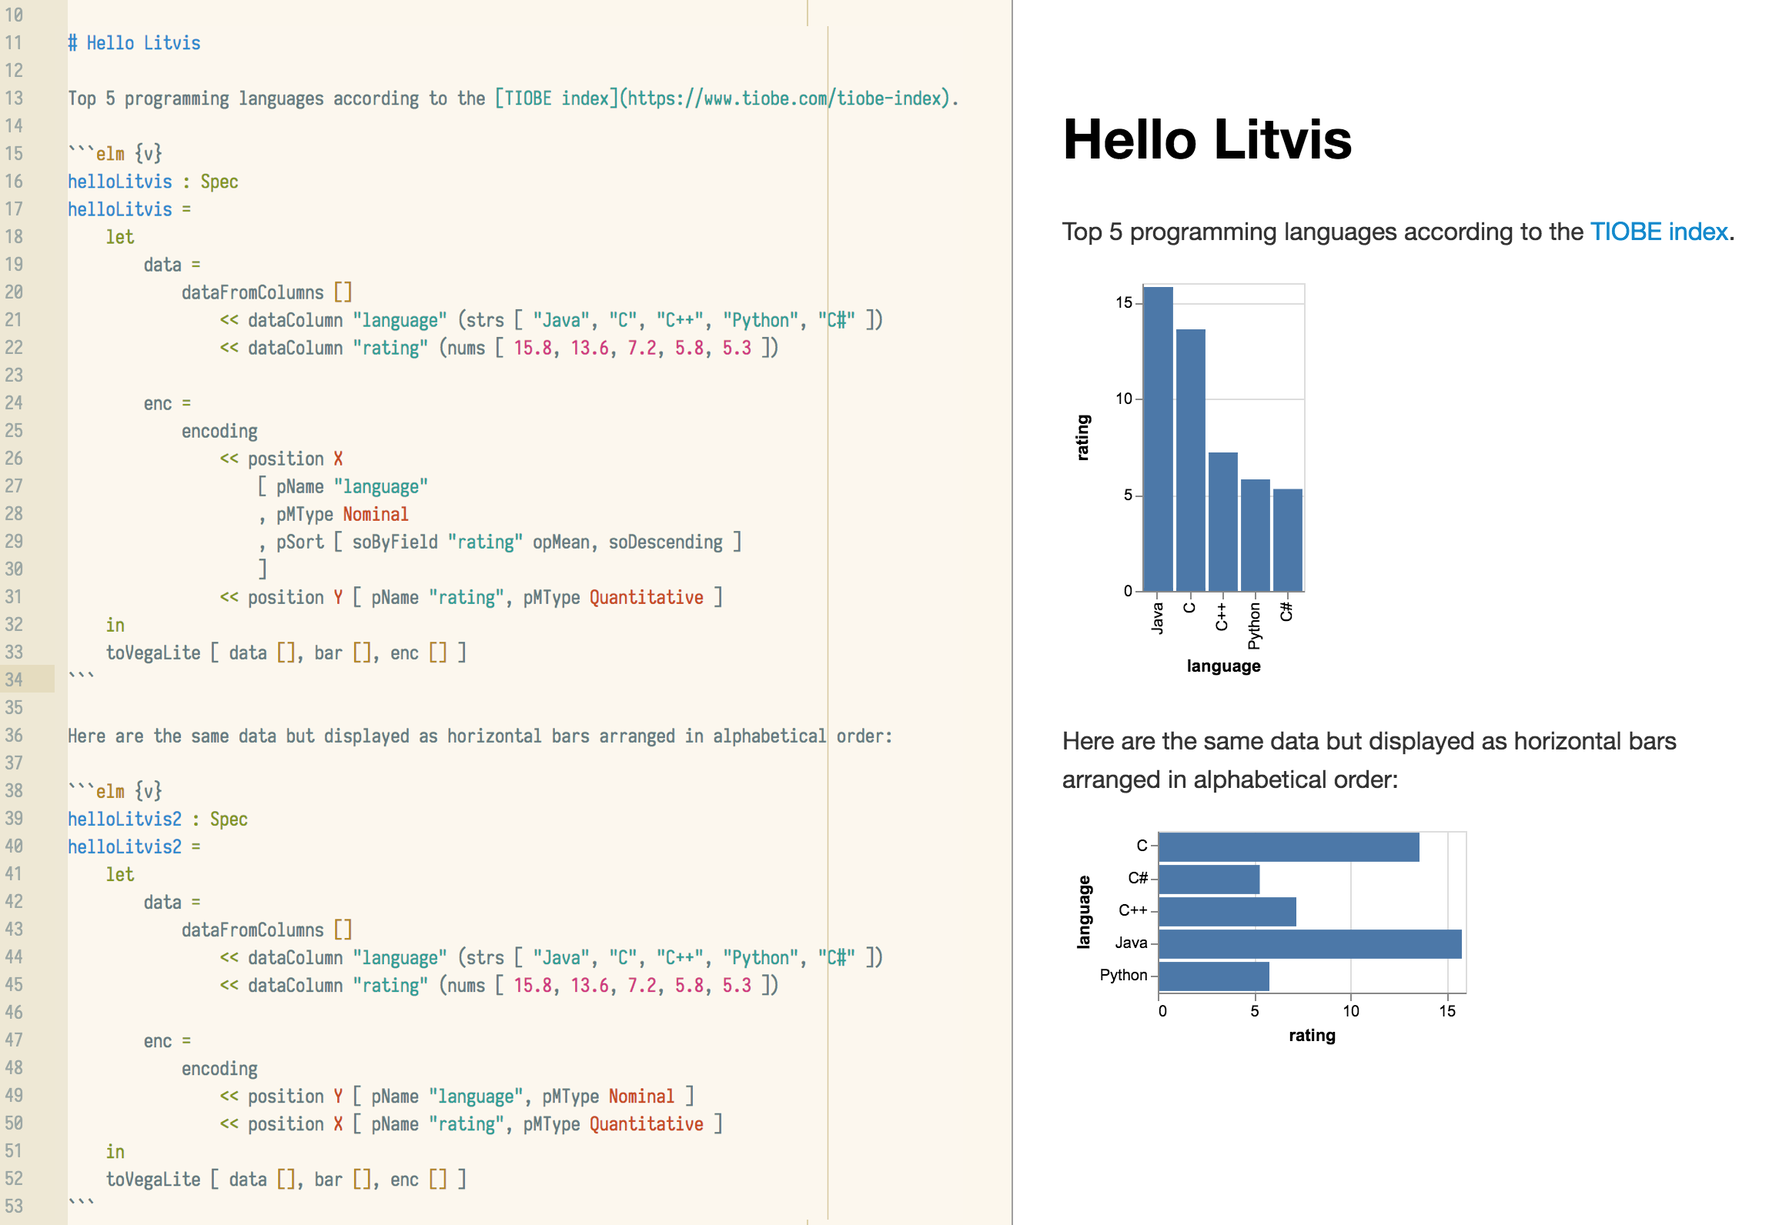
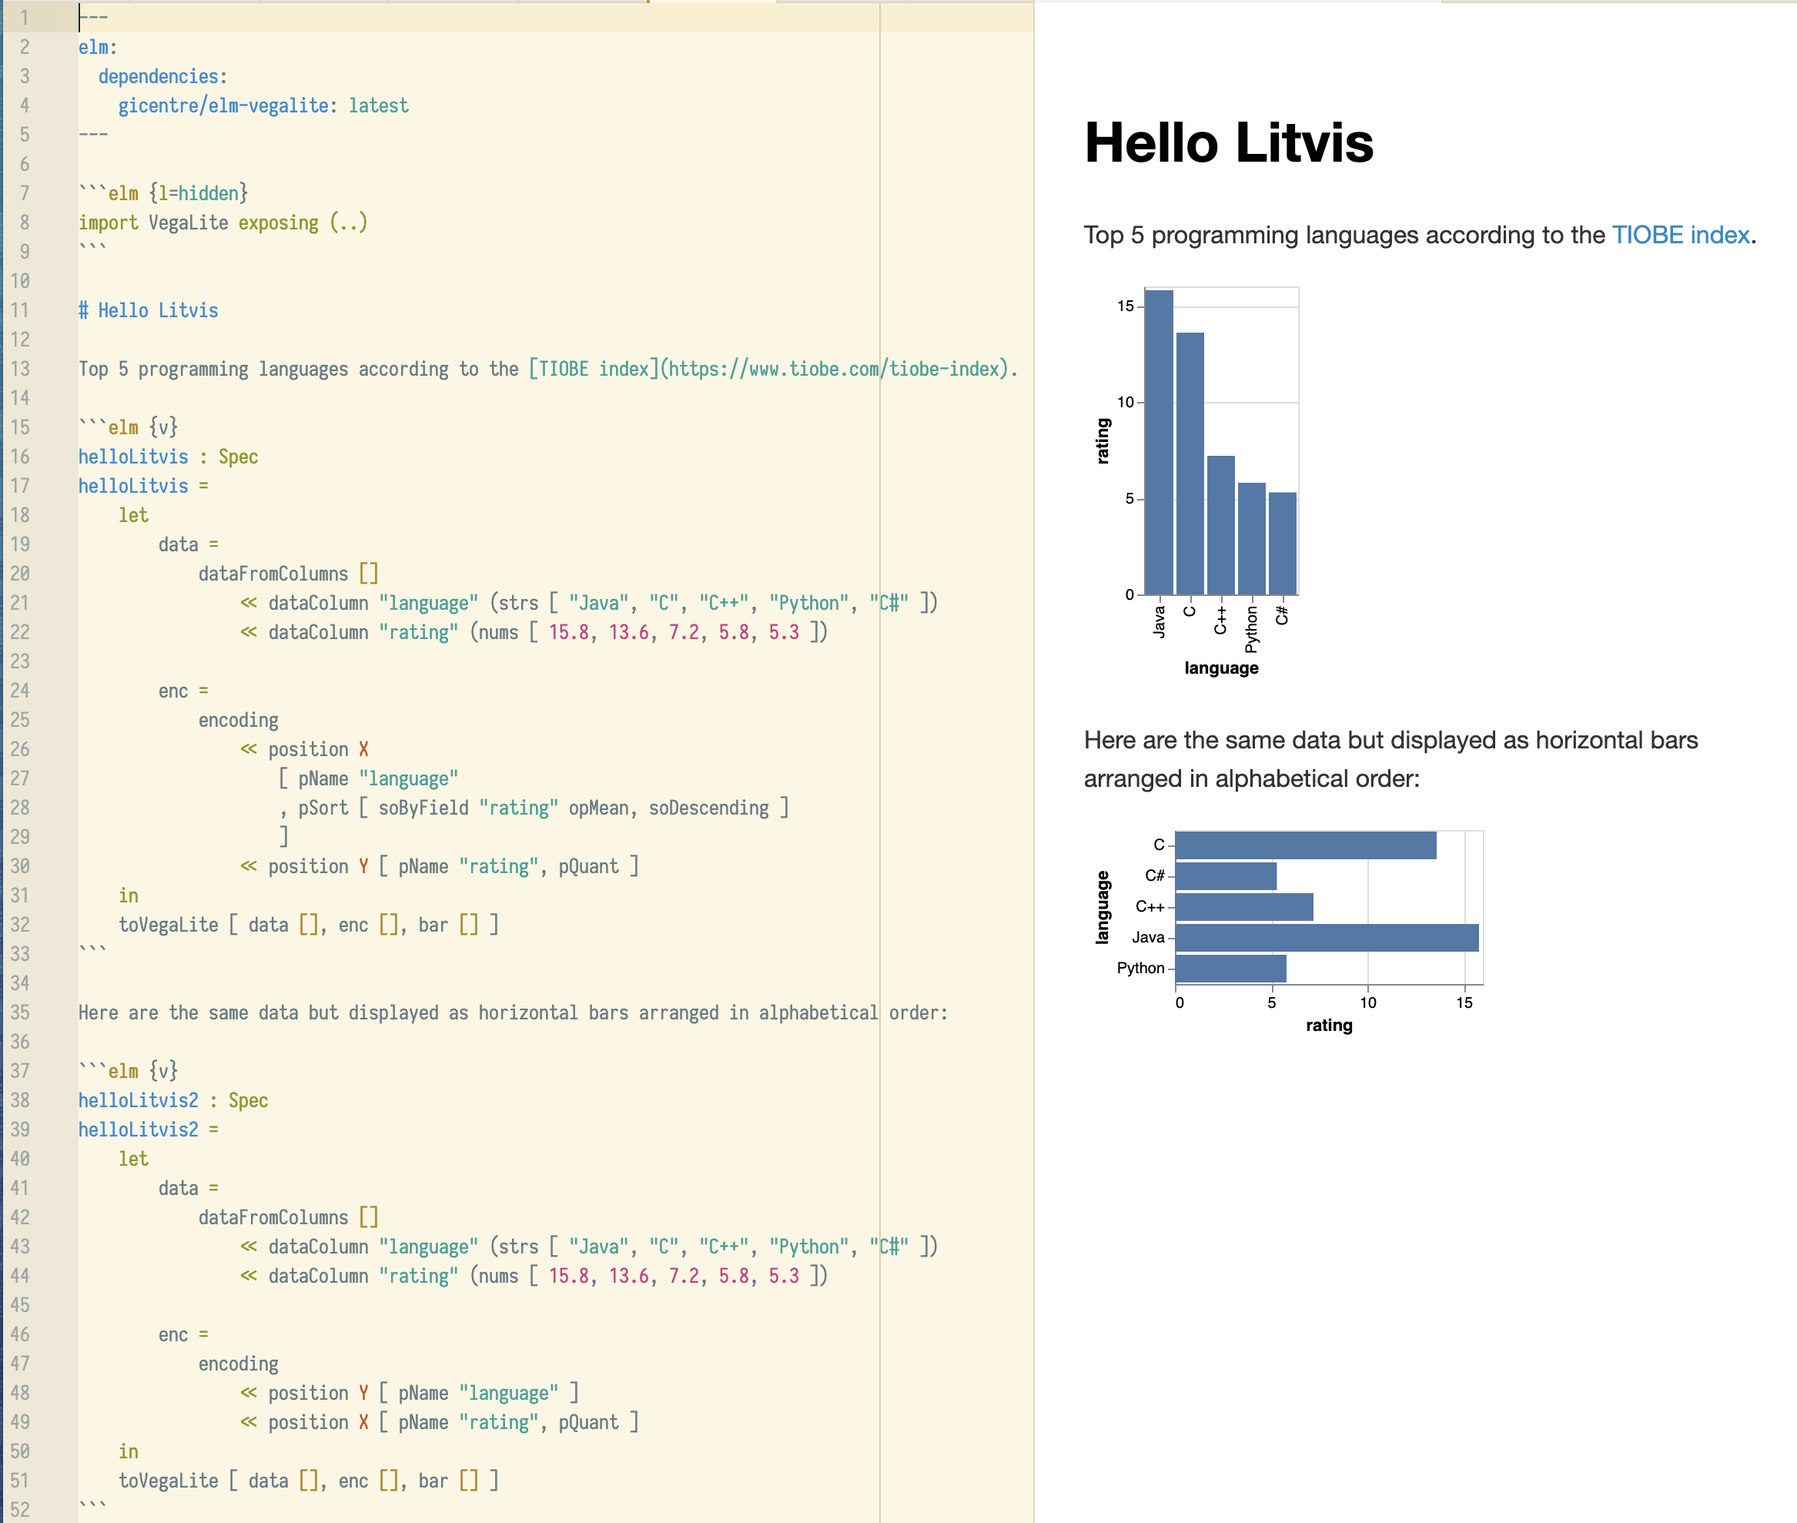
Update to use latest elm-vegalite and more idomatic code

Changed region(s): [[0.0, 0.0, 0.9887, 1.0], [0.0618, 0.8618, 0.4017, 0.9849], [0.4017, 0.3693, 0.5252, 0.4309]]

diff --git a/documents/tutorials/introduction/intro2.md b/documents/tutorials/introduction/intro2.md
@@ -15,9 +15,7 @@ narrative-schemas:
 
 # Branching Narratives
 
-We have already seen in the [previous chapter](intro1.md) that a litvis document can contain many code blocks, each of which can render a different visualization.
-Sometimes, when we are considering a visualization design we wish to explore different design approaches in order to evaluate their relative strengths and weaknesses.
-Rather than simply place all of these alternatives in a single document, we can create different 'branches' of a narrative that allows us to explore alternatives in parallel without creating a single, potentially confusing, monolithic narrative.
+We have already seen in the [previous chapter](intro1.md) that a litvis document can contain many code blocks, each of which can render a different visualization. Sometimes, when we are considering a visualization design we wish to explore different design approaches in order to evaluate their relative strengths and weaknesses. Rather than simply place all of these alternatives in a single document, we can create different 'branches' of a narrative that allows us to explore alternatives in parallel without creating a single, potentially confusing, monolithic narrative.
 
 Let's explore how this might work in practice by considering ways to visualize how household incomes of the richest and poorest 5% have changed over the last 50 years or so.
 
@@ -43,30 +41,24 @@ import VegaLite exposing (..)
 
 data : Data
 data =
-    dataFromUrl "https://gicentre.github.io/data/incomeInequality2017.csv" []
+    dataFromUrl "https://gicentre.github.io/data/incomeInequality2018.csv" []
 ```
 ````
 
-{(question |}
-Create a new file called `incomeRoot.md` and copy the code above into it.
-This will act as the 'root' for the branches we will create as it contains the code and text common to all branches.
-{|question )}
+{(question |} Create a new file called `incomeRoot.md` and copy the code above into it.
+This will act as the 'root' for the branches we will create as it contains the code and text common to all branches. {|question )}
 
 ## 2. Line Charts
 
 The data we are initially interested in are in the columns `Year`, `5pcIncome` and `95pcIncome`, so let's explore some line chart designs to show how household income has changed by year. But rather than add code directly to `incomeRoot.md` let's put our line-chart experiments in their own file, which we can call `incomeLineCharts.md`.
 
-{(question |}
-Copy the file [incomeLineCharts.md](incomeLineCharts.md) into the same folder as `incomeRoot.md`.
-{|question )}
+{(question |}Copy the file [incomeLineCharts.md](incomeLineCharts.md) into the same folder as `incomeRoot.md`. {|question )}
 
 This should generate formatted output similar to the following where you can experiment with some line chart representations of the data:
 
 ![line chart output](images/linecharts.png)
 
-{(question |}
-If you are feeling confident with [elm-vegalite](https://package.elm-lang.org/packages/gicentre/elm-vegalite/latest/) you can try further experiments with line charts by editing `incomeLineCharts.md`
-{|question )}
+{(question |} If you are feeling confident with [elm-vegalite](https://package.elm-lang.org/packages/gicentre/elm-vegalite/latest/) you can try further experiments with line charts by editing `incomeLineCharts.md` {|question )}
 
 Notice that the header of this new file doesn't have the usual `elm dependencies` lines, nor does it import anything or create a `data` function. All of that was defined in `incomeRoot.md`. Instead we link this document to `incomeRoot.md` with the header
 
@@ -84,9 +76,7 @@ Now suppose we've had enough experimentation with line charts and we want to con
 
 To try an alternative set of designs, we can create another document `incomeScatterplot.md` which also follows `incomeRoot`:
 
-{(question |}
-Copy the file [incomeScatterplots.md](incomeScatterplots.md) into the same folder as `incomeRoot.md` and view the results in the preview pane.
-{|question )}
+{(question |} Copy the file [incomeScatterplots.md](incomeScatterplots.md) into the same folder as `incomeRoot.md` and view the results in the preview pane. {|question )}
 
 This should generate a page where we can explore connected scatterplot designs, a portion of which is shown below:
 
@@ -109,10 +99,7 @@ Depending on which approach we think the better one we can continue exploring in
 
 Alternatively we could continue to develop both branches to see if we can improve them further. Or perhaps a completely different approach might occur to us, in which case we simply add a new parallel branch.
 
-{(question |}
-Try creating `incomeInequality.md` and link to your preferred design and see if you can improve upon it as you explore patterns of income inequality.
-The [original data file](https://gicentre.github.io/data/incomeInequality2017.csv) also contains data on the governing political party which you may want to incorporate into your visualization and analysis.
-{|question )}
+{(question |} Try creating `incomeInequality.md` and link to your preferred design and see if you can improve upon it as you explore patterns of income inequality. The [original data file](https://gicentre.github.io/data/incomeInequality2018.csv) also contains data on the governing political party which you may want to incorporate into your visualization and analysis. {|question )}
 
 ---
 

diff --git a/documents/tutorials/introduction/intro1.md b/documents/tutorials/introduction/intro1.md
@@ -50,16 +50,15 @@ helloLitvis =
             encoding
                 << position X
                     [ pName "language"
-                    , pNominal
                     , pSort [ soByField "rating" opMean, soDescending ]
                     ]
                 << position Y [ pName "rating", pQuant ]
     in
-    toVegaLite [ data [], bar [], enc [] ]
+    toVegaLite [ data [], enc[], bar [] ]
 ```
 ````
 
-If you open the preview pane (in Atom, select `Packages->Markdown Preview Enhanced with litvis->Toggle` or the keyboard shortcut `Shift-Ctrl-M`), you should see output similar to the following:
+If you open the preview pane (in Atom, select `Packages->Markdown Preview Enhanced with litvis->Toggle` or the keyboard shortcut `Shift-Ctrl-M`; or in VS-Code, `Crtl-k` or `Cmd-k` followed by `s`), you should see output similar to the following:
 
 ![helloLitvis](images/hello1.png)
 
@@ -101,8 +100,7 @@ Try changing the values inside the curly braces of `elm {v}` in `helloLitvis.md`
 
 ## Working with multiple code blocks
 
-You can mix normal markdown text with fenced code blocks throughout a litvis document.
-For example, try adding the following text and code to the bottom of [`helloLitvis.md`](helloLitvisV2.md):
+You can mix normal markdown text with fenced code blocks throughout a litvis document. For example, try adding the following text and code to the bottom of [`helloLitvis.md`](helloLitvisV2.md):
 
 ````
 Here are the same data but displayed as horizontal bars arranged in alphabetical order:
@@ -118,10 +116,10 @@ helloLitvis2 =
 
         enc =
             encoding
-                << position Y [ pName "language", pNominal ]
+                << position Y [ pName "language" ]
                 << position X [ pName "rating", pQuant ]
     in
-    toVegaLite [ data [], bar [], enc [] ]
+    toVegaLite [ data [], enc [], bar [] ]
 ```
 ````
 
@@ -133,8 +131,7 @@ By continuing to add text and code samples that render visualizations we can bui
 
 But notice that we have some repetition between the two code blocks that share a common data source, and that we have been forced to give the two versions of the function different names (`helloLitvis` and `helloLitvis2`) to avoid name clashes.
 
-By default, functions that are defined in fenced code blocks are visible throughout the entire document (which is why we had to give both rendering functions different names).
-We can use this to clean things up a little by putting the common code inside its own function to be used by other functions:
+By default, functions that are defined in fenced code blocks are visible throughout the entire document (which is why we had to give both rendering functions different names). We can use this to clean things up a little by putting the common code inside its own function to be used by other functions:
 
 ````
 ```elm {l=hidden}
@@ -145,8 +142,7 @@ data =
 ```
 ````
 
-Additionally, we can give our two visualization specification-generating functions the same name by making them _sidings_ – blocks of code that are not accessible to the other parts of the litvis document.
-This can be useful when you want to create 'one-off' functions that are not referenced elsewhere in your document:
+Additionally, we can give our two visualization specification-generating functions the same name by making them _sidings_ – blocks of code that are not accessible to the other parts of the litvis document. This can be useful when you want to create 'one-off' functions that are not referenced elsewhere in your document:
 
 ````
 Top 5 programming languages according to the [TIOBE index](https://www.tiobe.com/tiobe-index).
@@ -157,10 +153,10 @@ helloLitvis =
     let
         enc =
             encoding
-                << position X [ pName "language", pNominal, pSort [ soByField "rating" opMean, soDescending ] ]
+                << position X [ pName "language", pSort [ soByField "rating" opMean, soDescending ] ]
                 << position Y [ pName "rating", pQuant ]
     in
-    toVegaLite [ data [], bar [], enc [] ]
+    toVegaLite [ data [], enc[], bar [] ]
 ```
 
 Here are the same data but displayed as horizontal bars arranged in alphabetical order:
@@ -171,10 +167,10 @@ helloLitvis =
     let
         enc =
             encoding
-                << position Y [ pName "language", pNominal ]
+                << position Y [ pName "language" ]
                 << position X [ pName "rating", pQuant ]
     in
-    toVegaLite [ data [], bar [], enc [] ]
+    toVegaLite [ data [], enc[], bar [] ]
 ```
 ````
 

diff --git a/documents/tutorials/introduction/incomeScatterplots.md b/documents/tutorials/introduction/incomeScatterplots.md
@@ -7,14 +7,14 @@ follows: incomeRoot
 Rather than separate the 5% and 95% income quantiles, consider a scatterplot that compares both measures for each year of the sample.
 
 ```elm {l=hidden}
-config =
+cfg =
     let
         font =
             "Roboto Condensed"
     in
     configure
         << configuration (coAxis [ axcoTitleFont font, axcoLabelFont font, axcoGrid False ])
-        << configuration (coView [ vicoStroke Nothing, vicoWidth 500, vicoHeight 500 ])
+        << configuration (coView [ vicoStroke Nothing, vicoContinuousWidth 500, vicoContinuousHeight 500 ])
         << configuration (coText [ maAlign haRight, maFontSize 7, maAngle 20, maDx -4 ])
 ```
 
@@ -39,23 +39,22 @@ enc =
 ```elm {v siding}
 scatter : Spec
 scatter =
-    toVegaLite [ config [], data, point [ maFilled True ], enc [] ]
+    toVegaLite [ cfg [], data, enc [], point [ maFilled True ] ]
 ```
 
-While this shows some structure, which is revealing, we cannot see the temporal trend.
-We could get a better idea by creating a [connected scatterplot](https://eagereyes.org/papers/the-connected-scatterplot-for-presenting-paired-time-series) that joins the points in temporal order (1961 in bottom left, 2016 at top right):
+While this shows some structure, which is revealing, we cannot see the temporal trend. We could get a better idea by creating a [connected scatterplot](https://eagereyes.org/papers/the-connected-scatterplot-for-presenting-paired-time-series) that joins the points in temporal order (1961 in bottom left, 2016 at top right):
 
 ```elm {v siding}
 scatter : Spec
 scatter =
     toVegaLite
-        [ config []
+        [ cfg []
         , data
+        , enc []
         , line
             [ maInterpolate miMonotone
             , maPoint (pmMarker [ maFill "black", maStroke "white", maStrokeWidth 1.5 ])
             ]
-        , enc []
         ]
 ```
 
@@ -66,7 +65,7 @@ labelEnc =
     encoding
         << position X [ pName "5pcIncome", pQuant ]
         << position Y [ pName "95pcIncome", pQuant ]
-        << text [ tName "PMLabel", tNominal ]
+        << text [ tName "PMLabel" ]
 ```
 
 ```elm {v siding}
@@ -75,17 +74,17 @@ scatter =
     let
         lineSpec =
             asSpec
-                [ line
+                [ enc []
+                , line
                     [ maInterpolate miMonotone
                     , maPoint (pmMarker [ maFill "black", maStroke "white", maStrokeWidth 1.5 ])
                     ]
-                , enc []
                 ]
 
         labelSpec =
             asSpec [ textMark [], labelEnc [] ]
     in
-    toVegaLite [ config [], data, layer [ lineSpec, labelSpec ] ]
+    toVegaLite [ cfg [], data, layer [ lineSpec, labelSpec ] ]
 ```
 
 Labels look too crowded towards the top of the scatterplot, so for now let's make the chart zoomable.
@@ -96,18 +95,18 @@ scatter =
     let
         lineSpec =
             asSpec
-                [ line
+                [ enc []
+                , line
                     [ maInterpolate miMonotone
                     , maPoint (pmMarker [ maFill "black", maStroke "white", maStrokeWidth 1.5 ])
                     ]
-                , enc []
                 ]
 
         labelSpec =
-            asSpec [ textMark [], labelEnc [], sel [] ]
+            asSpec [ labelEnc [], sel [], textMark [] ]
 
         sel =
             selection << select "view" seInterval [ seBindScales ]
     in
-    toVegaLite [ config [], data, layer [ lineSpec, labelSpec ] ]
+    toVegaLite [ cfg [], data, layer [ lineSpec, labelSpec ] ]
 ```

diff --git a/documents/tutorials/introduction/incomeLineCharts.md b/documents/tutorials/introduction/incomeLineCharts.md
@@ -15,7 +15,7 @@ richest =
                 << position X [ pName "Year", pTemporal, pAxis [ axFormat "%Y" ] ]
                 << position Y [ pName "95pcIncome", pQuant, pTitle "Richest 5% (£)" ]
     in
-    toVegaLite [ width 400, data, line [ maStroke "darkBlue" ], enc [] ]
+    toVegaLite [ width 400, data, enc [], line [ maStroke "darkBlue" ] ]
 ```
 
 And the same for the poorest 5% (5th percentile):
@@ -29,7 +29,7 @@ poorest =
                 << position X [ pName "Year", pTemporal, pAxis [ axFormat "%Y" ] ]
                 << position Y [ pName "5pcIncome", pQuant, pTitle "Poorest 5% (£)" ]
     in
-    toVegaLite [ width 400, data, line [ maStroke "darkRed" ], enc [] ]
+    toVegaLite [ width 400, data, enc [], line [ maStroke "darkRed" ] ]
 ```
 
 Comparison between the two is quite hard, so perhaps it would be easier on the same chart:
@@ -52,8 +52,8 @@ combinedLinechart =
         [ width 400
         , data
         , layer
-            [ asSpec [ line [ maStroke "darkred" ], enc5pc [] ]
-            , asSpec [ line [ maStroke "darkblue" ], enc95pc [] ]
+            [ asSpec [ enc5pc [], line [ maStroke "darkred" ] ]
+            , asSpec [ enc95pc [], line [ maStroke "darkblue" ] ]
             ]
         ]
 ```
@@ -84,8 +84,8 @@ combinedLinechart =
         , data
         , res []
         , layer
-            [ asSpec [ line [ maStroke "darkred" ], enc5pc [] ]
-            , asSpec [ line [ maStroke "darkblue" ], enc95pc [] ]
+            [ asSpec [ enc5pc [], line [ maStroke "darkred" ] ]
+            , asSpec [ enc95pc [], line [ maStroke "darkblue" ] ]
             ]
         ]
 ```

diff --git a/documents/tutorials/introduction/helloLitvisV3.md b/documents/tutorials/introduction/helloLitvisV3.md
@@ -27,12 +27,11 @@ helloLitvis =
             encoding
                 << position X
                     [ pName "language"
-                    , pNominal
                     , pSort [ soByField "rating" opMean, soDescending ]
                     ]
                 << position Y [ pName "rating", pQuant ]
     in
-    toVegaLite [ data [], bar [], enc [] ]
+    toVegaLite [ data [], enc [], bar [] ]
 ```
 
 Here are the same data but displayed as horizontal bars arranged in alphabetical order:
@@ -43,8 +42,8 @@ helloLitvis =
     let
         enc =
             encoding
-                << position Y [ pName "language", pNominal ]
+                << position Y [ pName "language" ]
                 << position X [ pName "rating", pQuant ]
     in
-    toVegaLite [ data [], bar [], enc [] ]
+    toVegaLite [ data [], enc [], bar [] ]
 ```

diff --git a/documents/tutorials/introduction/helloLitvisV4.md b/documents/tutorials/introduction/helloLitvisV4.md
@@ -25,12 +25,11 @@ helloLitvis =
             encoding
                 << position X
                     [ pName "language"
-                    , pNominal
                     , pSort [ soByField "rating" opMean, soDescending ]
                     ]
                 << position Y [ pName "rating", pQuant ]
     in
-    toVegaLite [ data [], bar [], enc [] ]
+    toVegaLite [ data [], enc [], bar [] ]
 ```
 
 Here are the same data but displayed as horizontal bars arranged in alphabetical order:
@@ -41,8 +40,8 @@ helloLitvis =
     let
         enc =
             encoding
-                << position Y [ pName "language", pNominal ]
+                << position Y [ pName "language" ]
                 << position X [ pName "rating", pQuant ]
     in
-    toVegaLite [ data [], bar [], enc [] ]
+    toVegaLite [ data [], enc [], bar [] ]
 ```

diff --git a/documents/tutorials/introduction/helloLitvisV2.md b/documents/tutorials/introduction/helloLitvisV2.md
@@ -25,12 +25,11 @@ helloLitvis =
             encoding
                 << position X
                     [ pName "language"
-                    , pNominal
                     , pSort [ soByField "rating" opMean, soDescending ]
                     ]
                 << position Y [ pName "rating", pQuant ]
     in
-    toVegaLite [ data [], bar [], enc [] ]
+    toVegaLite [ data [], enc [], bar [] ]
 ```
 
 Here are the same data but displayed as horizontal bars arranged in alphabetical order:
@@ -46,8 +45,8 @@ helloLitvis2 =
 
         enc =
             encoding
-                << position Y [ pName "language", pNominal ]
+                << position Y [ pName "language" ]
                 << position X [ pName "rating", pQuant ]
     in
-    toVegaLite [ data [], bar [], enc [] ]
+    toVegaLite [ data [], enc [], bar [] ]
 ```

diff --git a/documents/tutorials/introduction/helloLitvisV1.md b/documents/tutorials/introduction/helloLitvisV1.md
@@ -25,10 +25,9 @@ helloLitvis =
             encoding
                 << position X
                     [ pName "language"
-                    , pNominal
                     , pSort [ soByField "rating" opMean, soDescending ]
                     ]
                 << position Y [ pName "rating", pQuant ]
     in
-    toVegaLite [ data [], bar [], enc [] ]
+    toVegaLite [ data [], enc [], bar [] ]
 ```

diff --git a/documents/tutorials/introduction/newIdiom.md b/documents/tutorials/introduction/newIdiom.md
@@ -37,7 +37,6 @@ This will have to wait until I've coded up some examples.
 
 {(limitations|}
 
-These only work for 2x2 tables. What if I wanted to show a 3x3 table?
-Success depends on our ability to compare areas accurately.
+These only work for 2x2 tables. What if I wanted to show a 3x3 table? Success depends on our ability to compare areas accurately.
 
 {|limitations)}
